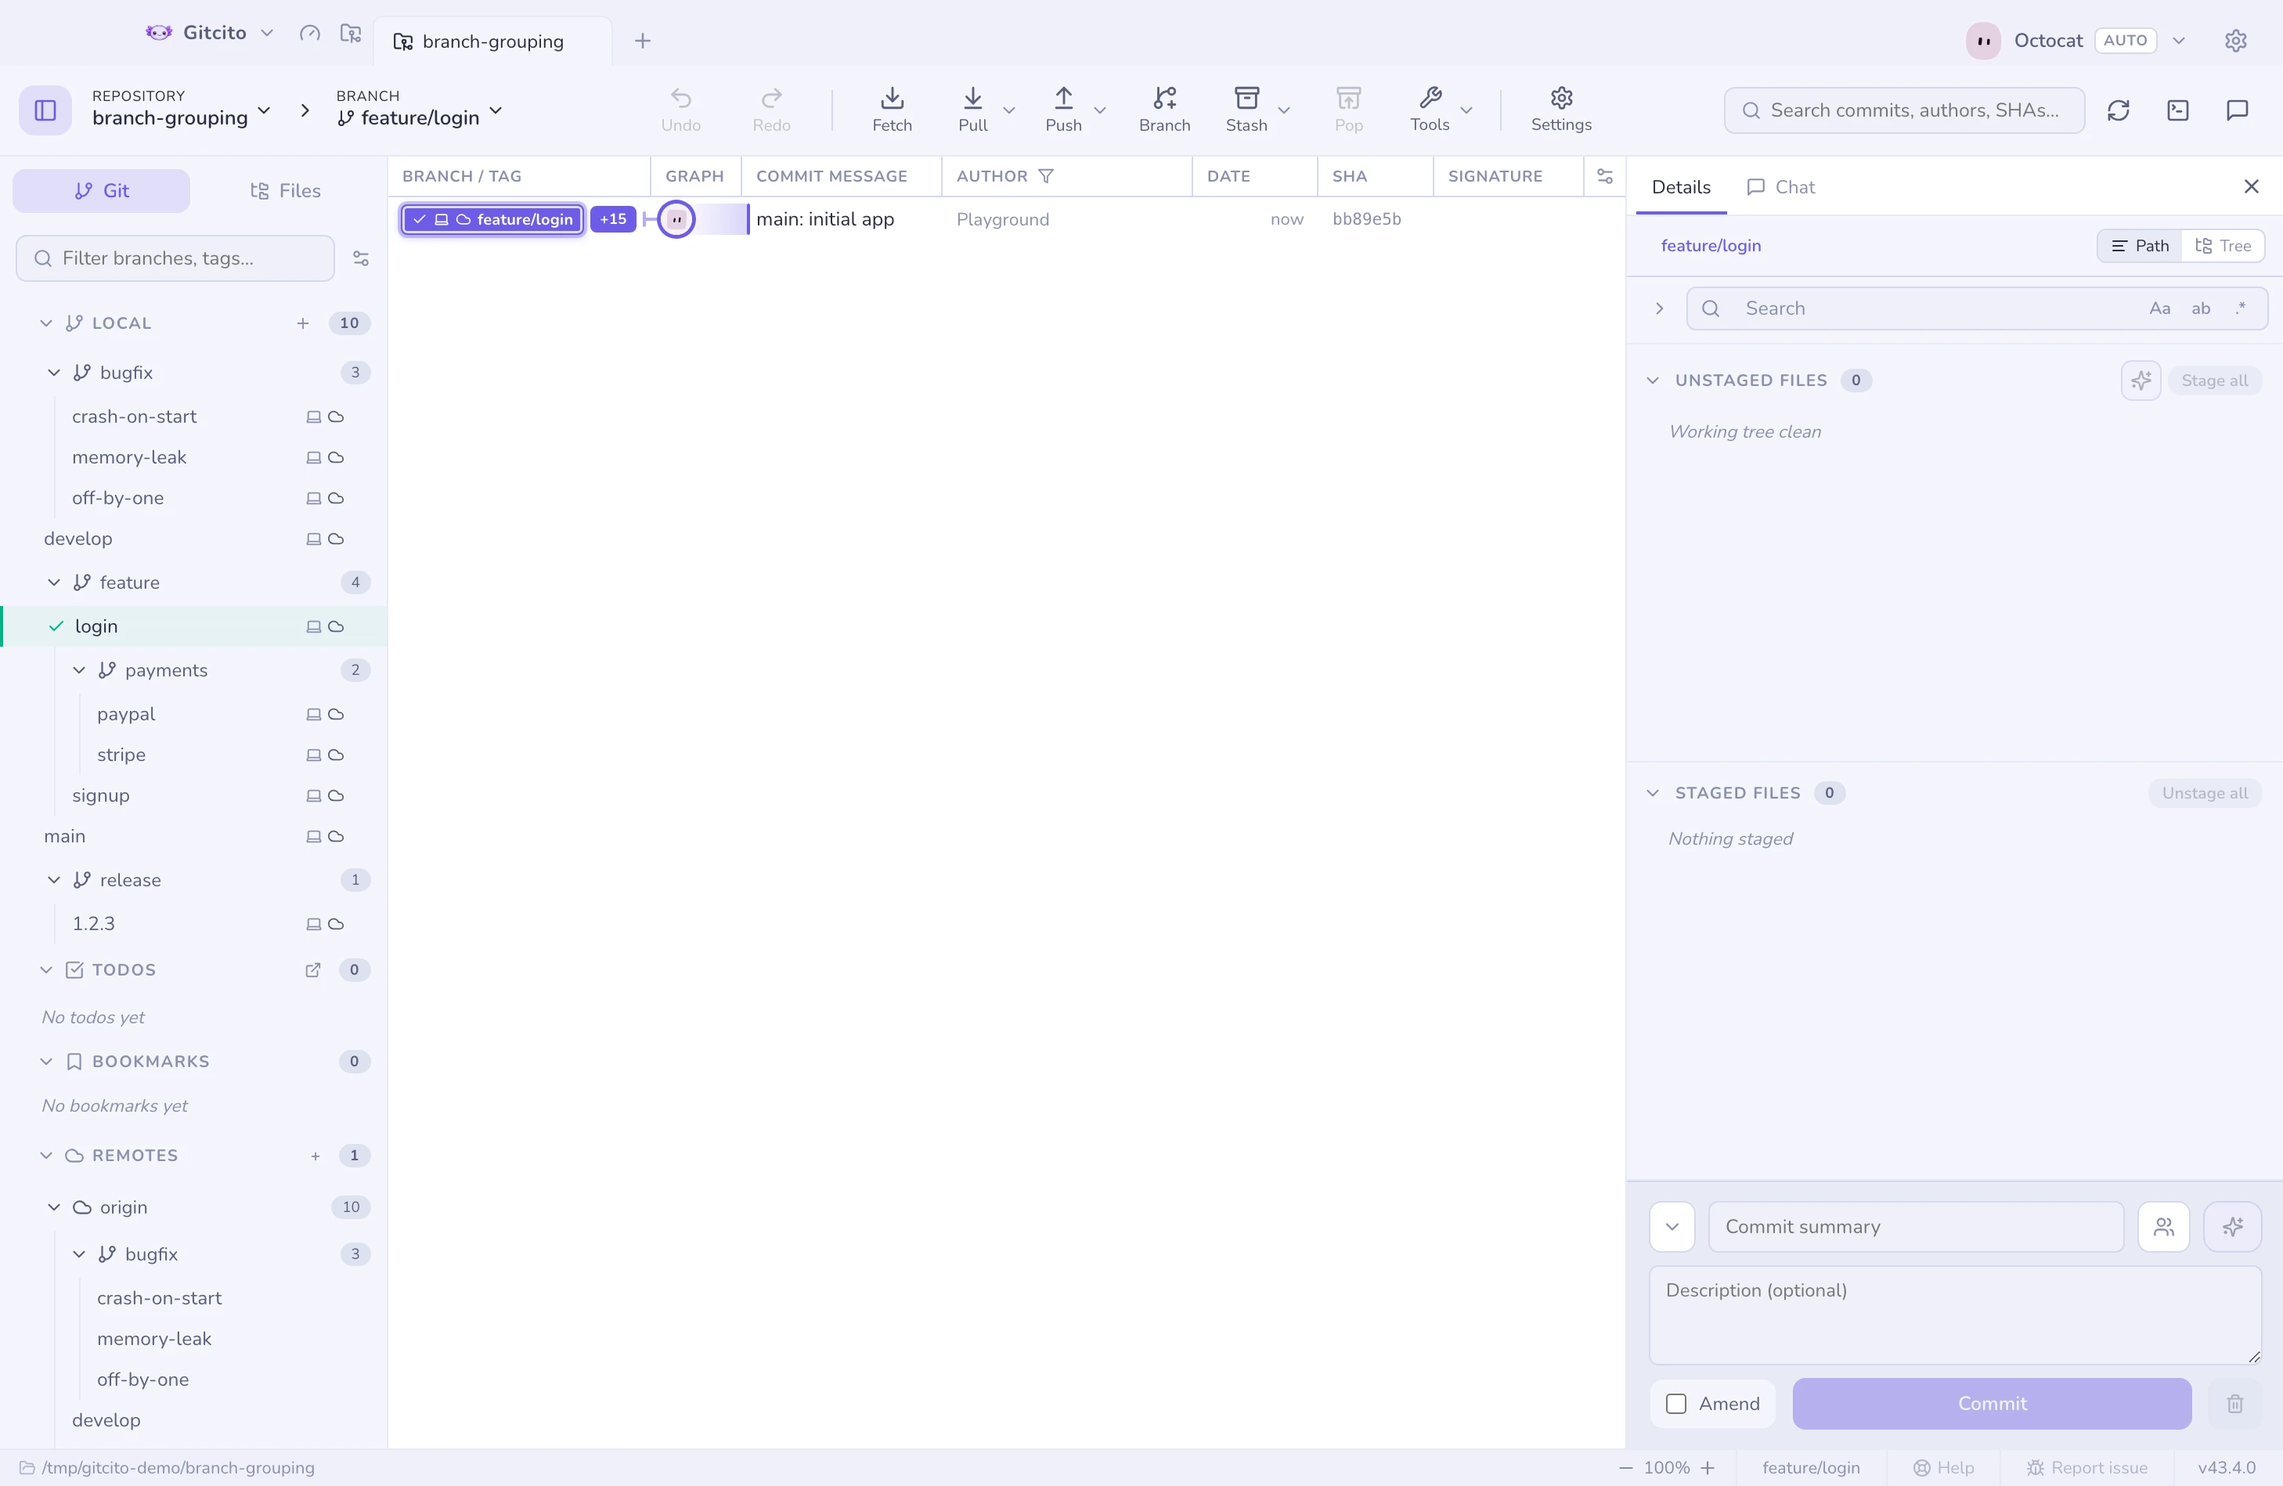
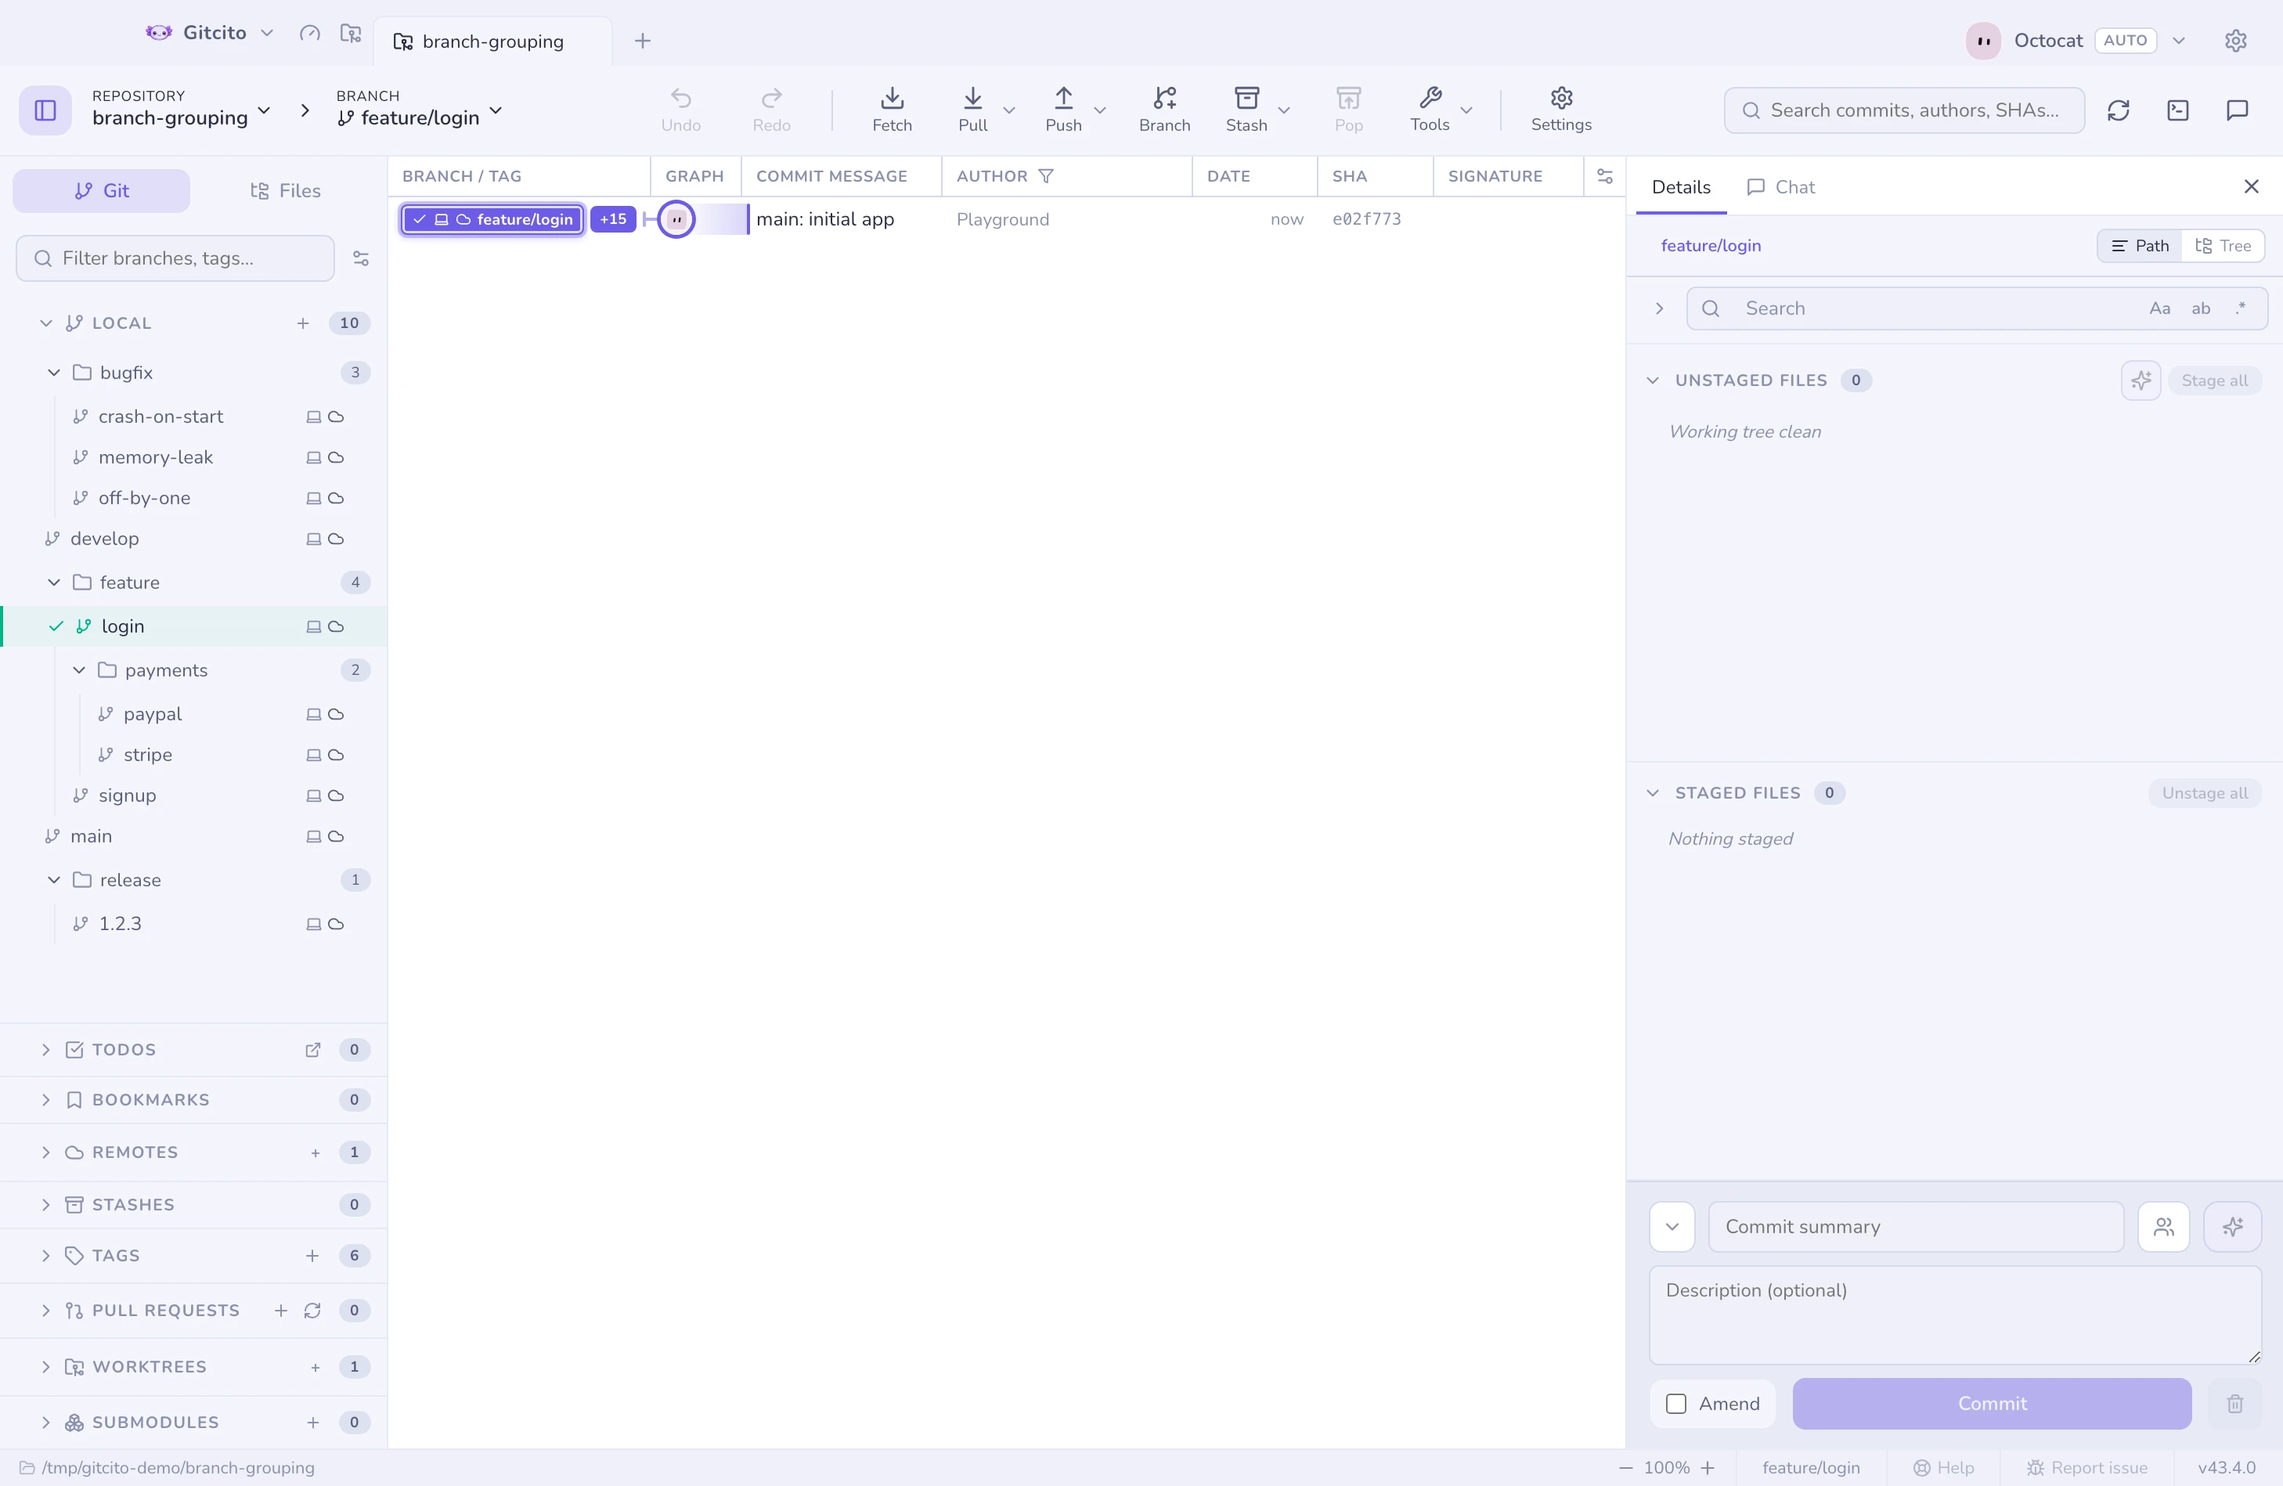
feat: mark a ref row by its kind and a namespace by a folder
The sidebar drew a branch icon on the *folder* header and nothing at all on
the branches inside it, so `feat` and `feat/login` read as the same kind of
row — the opposite of what the icon should say. Every other Git client puts
the branch mark on the branch and a folder on the prefix; do the same.

- Local and remote branch rows lead with a branch icon, green on the
  checked-out branch beside its checkmark.
- Branch, remote-branch and tag folder headers lead with a folder icon. Tag
  folders fold through the same prefix tree, so leaving them on a tag icon
  would have made "folder" mean namespace everywhere except there.
- Section headers (LOCAL, REMOTES, TAGS) and the per-remote `origin` header
  keep their own icons: a remote is not a namespace.

Side effect worth having: a leaf name now sits a few pixels from its parent
folder's title instead of 20px to the left of it.

Also fixes a stranded "richiudibili." left in its own paragraph in the
Italian handbook page by an earlier rewrap.

diff --git a/src/renderer/src/components/Sidebar.tsx b/src/renderer/src/components/Sidebar.tsx
@@ -13,6 +13,7 @@ import {
   Search,
   RefreshCw,
   Check,
+  Folder,
   FolderGit2,
   Boxes,
   AlertTriangle,
@@ -1422,6 +1423,7 @@ export function Sidebar({ repo }: { repo: RepoData }): React.JSX.Element {
       title={`${b.name}${b.upstream ? ` → ${b.upstream}` : ''}`}
     >
       {b.isCurrent && <Check size={12} className="sb-current-mark" />}
+      <GitBranch size={11} className="sb-branch-icon" />
       <span className="sb-name">{label}</span>
       {b.ahead > 0 && <span className="badge ahead">↑{b.ahead}</span>}
       {b.behind > 0 && <span className="badge behind">↓{b.behind}</span>}
@@ -1457,7 +1459,7 @@ export function Sidebar({ repo }: { repo: RepoData }): React.JSX.Element {
         nested
         depth={depth}
         title={title}
-        icon={<GitBranch size={13} />}
+        icon={<Folder size={13} className="sb-folder-icon" />}
         count={leaves}
         {...persistOpen(`grp:${fullPath}`, openUnlessHuge(leaves))}
         onHeaderContextMenu={(e) => {
@@ -1491,6 +1493,7 @@ export function Sidebar({ repo }: { repo: RepoData }): React.JSX.Element {
       onContextMenu={(e) => ctxMenu(e, 'remote', b.fullName, () => remoteMenu(b), remoteBulkMenu)}
       title={b.fullName}
     >
+      <GitBranch size={11} className="sb-branch-icon" />
       <span className="sb-name">{label}</span>
       {repo.forcedUpdates[b.fullName] && (
         <span
@@ -1530,7 +1533,7 @@ export function Sidebar({ repo }: { repo: RepoData }): React.JSX.Element {
         nested
         depth={depth}
         title={title}
-        icon={<GitBranch size={13} />}
+        icon={<Folder size={13} className="sb-folder-icon" />}
         count={leaves}
         {...persistOpen(`rgrp:${remoteName}/${fullPath}`, openUnlessHuge(leaves))}
         onHeaderContextMenu={(e) => {
@@ -1616,7 +1619,7 @@ export function Sidebar({ repo }: { repo: RepoData }): React.JSX.Element {
         nested
         depth={depth}
         title={title}
-        icon={<Tag size={13} />}
+        icon={<Folder size={13} className="sb-folder-icon" />}
         count={leaves}
         {...persistOpen(`tgrp:${fullPath}`, openUnlessHuge(leaves))}
       >

diff --git a/src/renderer/src/styles.css b/src/renderer/src/styles.css
@@ -1711,6 +1711,21 @@ textarea:focus {
   color: var(--text-2);
   flex-shrink: 0;
 }
+/* A ref row carries the icon for its kind and a namespace header carries a
+ * folder, so "feat/" reads as a container and "feat/login" as a branch —
+ * the same split every other Git client uses. Both are muted: they classify
+ * the row, they are not what the eye should land on. */
+.sb-branch-icon {
+  color: var(--text-2);
+  flex-shrink: 0;
+}
+.sb-item.current .sb-branch-icon {
+  color: var(--green);
+}
+.sb-folder-icon {
+  color: var(--text-2);
+  flex-shrink: 0;
+}
 
 .sb-tag-cloud {
   flex-shrink: 0;

diff --git a/docs/help/it/branching.md b/docs/help/it/branching.md
@@ -31,16 +31,19 @@ mostrano:
 - un **punto di rischio** dopo una scansione del [radar dei conflitti](conflict-radar.md),
 - un **marcatore ⟳** quando il remote ha [riscritto la storia](range-diff.md).
 
-I branch con `/` nel nome si raggruppano automaticamente in cartelle
-Un prefisso è sempre una cartella, anche quando sotto c'è un solo branch:
-`refactor/v2` è una cartella `refactor` che contiene `v2`, così l'elenco non si
-riorganizza il giorno in cui compare un secondo `refactor/*`. Una catena di
-cartelle con un unico figlio si riduce a una sola intestazione, quindi
-`dependabot/npm_and_yarn/axios-1.7.9` costa un livello invece di tre. Togli la
-spunta a **Raggruppa le ref per prefisso** nelle Impostazioni per un elenco
-piatto.
+Ogni riga inizia con l'icona di ciò che rappresenta: un'icona di branch su un
+branch, un'icona di tag su un tag, una cartella sull'intestazione di un
+namespace — così `feature` non si legge mai come un branch chiamato `feature`.
 
-richiudibili.
+I branch con `/` nel nome si raggruppano automaticamente in cartelle
+richiudibili. Un prefisso è sempre una cartella, anche quando sotto c'è un solo
+branch: `refactor/v2` è una cartella `refactor` che contiene `v2`, così
+l'elenco non si riorganizza il giorno in cui compare un secondo `refactor/*`.
+Una catena di cartelle con un unico figlio si riduce a una sola intestazione,
+quindi `dependabot/npm_and_yarn/axios-1.7.9` costa un livello invece di tre.
+Togli la spunta a **Raggruppa le ref per prefisso** nelle Impostazioni per un
+elenco piatto.
+
 Un clic destro sull'intestazione di una cartella agisce sull'intero gruppo:
 *Elimina tutti i branch sotto `feature` (4 branch)* rimuove tutto il contenuto
 dopo un'unica conferma che elenca esattamente quali branch se ne vanno — il

diff --git a/docs/help/uk/branching.md b/docs/help/uk/branching.md
@@ -32,6 +32,10 @@ keywords: гілка branch гілки branches створити create чека
 - **крапку ризику** після сканування [радаром конфліктів](conflict-radar.md),
 - **позначку ⟳**, коли віддалений репозиторій [переписав історію](range-diff.md).
 
+Кожен рядок починається зі значка того, чим він є: значок гілки — у гілки,
+значок теґу — у теґа, тека — у заголовку простору імен, тому `feature` ніколи
+не читається як гілка з назвою `feature`.
+
 Гілки, у назвах яких є `/`, автоматично згортаються в теки.
 Префікс — завжди тека, навіть коли під ним живе одна гілка: `refactor/v2` це
 тека `refactor` із `v2` усередині, тож список не перебудовується того дня, коли

diff --git a/docs/help/ru/branching.md b/docs/help/ru/branching.md
@@ -34,6 +34,10 @@ keywords: ветка ветки создать переключить переи
 - **маркер ⟳**, когда удалённый репозиторий
   [переписал историю](range-diff.md).
 
+Каждая строка начинается со значка того, чем она является: значок ветки —
+у ветки, значок тега — у тега, папка — у заголовка пространства имён, поэтому
+`feature` никогда не читается как ветка с именем `feature`.
+
 Ветки с `/` в именах автоматически сворачиваются в раскрывающиеся папки.
 Префикс всегда папка, даже если под ним живёт одна ветка: `refactor/v2` — это
 папка `refactor` с `v2` внутри, поэтому список не перестраивается в день, когда

diff --git a/docs/help/ja/branching.md b/docs/help/ja/branching.md
@@ -29,6 +29,10 @@ keywords: ブランチ branch branches 作成 create チェックアウト check
 - [コンフリクトレーダー](conflict-radar.md) の走査後に付く **リスクの点**、
 - リモートが [履歴を書き換えた](range-diff.md) ときの **⟳ の印**。
 
+各行は、それが何であるかを示すアイコンで始まります。ブランチにはブランチアイコン、
+タグにはタグアイコン、名前空間の見出しにはフォルダー。だから `feature` が
+`feature` という名前のブランチに見えることはありません。
+
 名前に `/` を含むブランチは、自動で折りたためるフォルダにまとまります。
 接頭辞は、その下にブランチが 1 つしかなくても必ずフォルダになります。`refactor/v2` は
 `v2` を収めた `refactor` フォルダなので、2 つめの `refactor/*` が現れた日に一覧が

diff --git a/docs/help/he/branching.md b/docs/help/he/branching.md
@@ -29,6 +29,9 @@ keywords: ענף ענפים יצירה צ׳קאאוט שינוי שם מחיקה
 - **נקודת סיכון** אחרי סריקת [מכ״ם התנגשויות](conflict-radar.md),
 - **סמן ⟳** כשהרימוט [כתב מחדש היסטוריה](range-diff.md).
 
+כל שורה נפתחת באייקון שמסמן מה היא: אייקון ענף לענף, אייקון תגית לתגית, תיקייה
+לכותרת של מרחב שמות — כך ש-`feature` לעולם לא ייקרא כענף בשם `feature`.
+
 ענפים עם `/` בשמותיהם מתקפלים אוטומטית לתיקיות ניתנות לכיווץ.
 קידומת היא תמיד תיקייה, גם כשגר תחתיה ענף יחיד: `refactor/v2` היא תיקיית
 `refactor` שבתוכה `v2`, כך שהרשימה לא מסתדרת מחדש ביום שבו מופיע `refactor/*`

diff --git a/docs/help/zh-CN/branching.md b/docs/help/zh-CN/branching.md
@@ -26,6 +26,9 @@ keywords: branch 分支 branches create 创建 checkout 检出 rename 重命名 
 - 一次[冲突雷达](conflict-radar.md)扫描之后的**风险圆点**，
 - 当远程[重写过历史](range-diff.md)时的 **⟳ 标记**。
 
+每一行都以表明其身份的图标开头：分支用分支图标，标签用标签图标，命名空间标题用
+文件夹图标——这样 `feature` 就不会被误读成一个名为 `feature` 的分支。
+
 名字里带 `/` 的分支会自动折叠成可收起的文件夹。
 前缀始终是文件夹，哪怕底下只有一个分支：`refactor/v2` 是装着 `v2` 的 `refactor`
 文件夹，于是第二个 `refactor/*` 出现那天，列表不会重新排布。只有一个子项的连续文件夹

diff --git a/docs/help/tr/branching.md b/docs/help/tr/branching.md
@@ -31,6 +31,10 @@ Dal satırları şunları gösterir:
 - bir [çakışma radarı](conflict-radar.md) taramasından sonra bir **risk noktası**,
 - uzak depo [geçmişi yeniden yazdığında](range-diff.md) bir **⟳ işareti**.
 
+Her satır ne olduğunu gösteren bir simgeyle başlar: dalda dal simgesi,
+etikette etiket simgesi, ad alanı başlığında klasör — böylece `feature` asla
+`feature` adlı bir dal gibi okunmaz.
+
 Adında `/` bulunan dallar otomatik olarak katlanabilir klasörlere toplanır.
 Bir önek her zaman klasördür, altında tek bir dal olsa bile: `refactor/v2`,
 içinde `v2` bulunan bir `refactor` klasörüdür; böylece ikinci bir `refactor/*`

diff --git a/docs/help/es/branching.md b/docs/help/es/branching.md
@@ -31,6 +31,10 @@ rama muestran:
 - un **punto de riesgo** tras un escaneo del [radar de conflictos](conflict-radar.md),
 - un **marcador ⟳** cuando el remoto [reescribió el historial](range-diff.md).
 
+Cada fila empieza con un icono de lo que es: un icono de rama en una rama, un
+icono de etiqueta en una etiqueta, una carpeta en la cabecera de un espacio de
+nombres — así `feature` nunca se lee como una rama llamada `feature`.
+
 Las ramas con `/` en el nombre se pliegan en carpetas plegables automáticamente.
 Un prefijo siempre es una carpeta, aunque debajo viva una sola rama:
 `refactor/v2` es una carpeta `refactor` que contiene `v2`, así la lista no se
